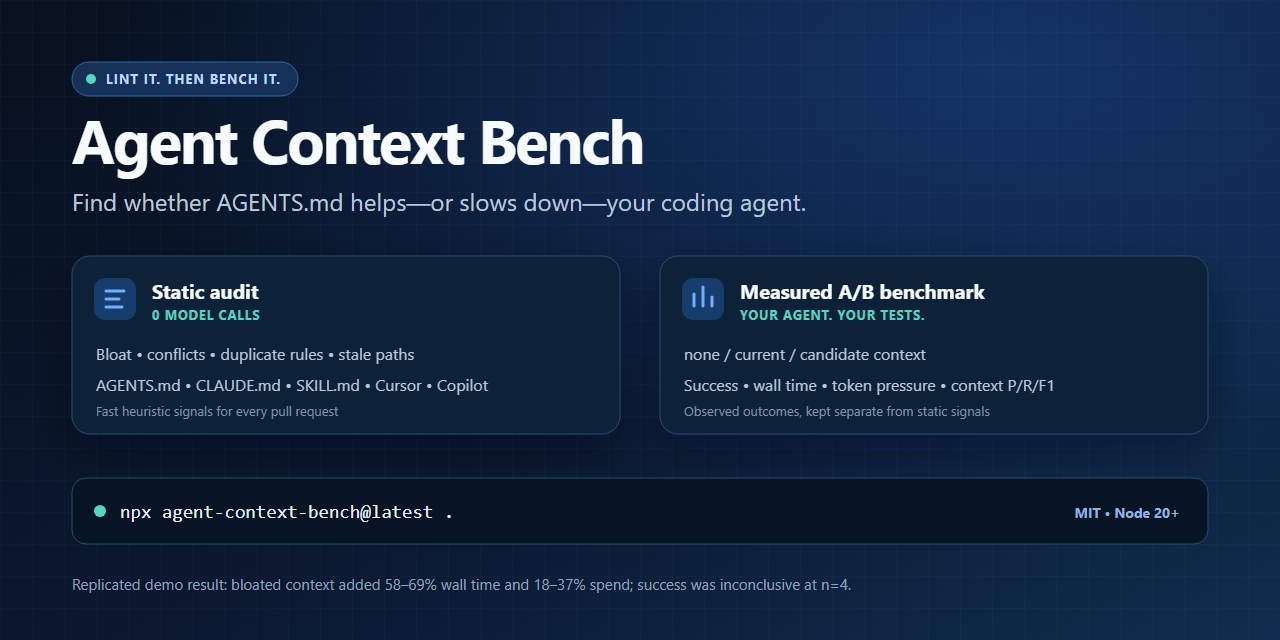
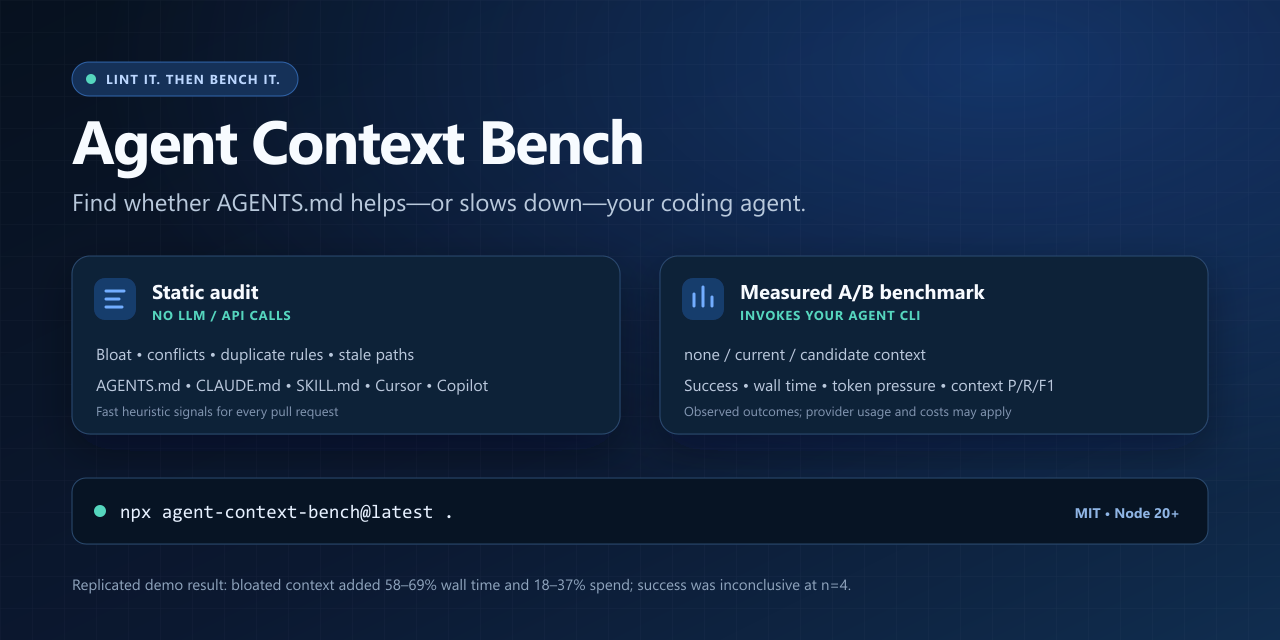
docs: clarify audit and benchmark usage

diff --git a/README.md b/README.md
@@ -5,18 +5,18 @@
 **Does your agent context help—or just add work?**
 
 Audit `AGENTS.md`, `CLAUDE.md`, coding-agent `SKILL.md` files, Cursor rules,
-and Copilot instructions locally with no model calls. Then A/B-test `none` vs
-`current` vs `optimized` context with your own agent, tasks, and verifier.
+and Copilot instructions locally without LLM or API calls. Then A/B-test `none`
+vs `current` vs `optimized` context with your own agent, tasks, and verifier.
 
 <p align="center">
   <picture>
     <source media="(prefers-color-scheme: dark)" srcset="./docs/img/overview-dark.svg">
     <source media="(prefers-color-scheme: light)" srcset="./docs/img/overview-light.svg">
-    <img src="./docs/img/overview-light.svg" alt="Agent Context Bench: model-free static audit followed by a measured A/B benchmark" width="880">
+    <img src="./docs/img/overview-light.svg" alt="Agent Context Bench: a local static audit without LLM or API calls, followed by a benchmark that invokes your agent CLI" width="880">
   </picture>
 </p>
 
-<p align="center"><strong>Local audit · zero model calls</strong> &nbsp;|&nbsp; <strong>Measured A/B runner</strong> &nbsp;|&nbsp; <strong>GitHub Action</strong></p>
+<p align="center"><strong>Static audit · no LLM/API calls</strong> &nbsp;|&nbsp; <strong>Benchmark · invokes your agent CLI</strong> &nbsp;|&nbsp; <strong>GitHub Action</strong></p>
 
 ## Try it in 30 seconds
 
@@ -51,8 +51,8 @@ rename it only if the repository needs agent-specific guidance.
 
 | Mode | Cost | What it tells you |
 | --- | --- | --- |
-| `agent-context-bench .` | No model calls | Heuristic risk signals, token footprint, conflicts, duplication, unsafe rules, broken paths, and scope |
-| `agent-context-bench run-bench …` | Real agent runs | Observed task success, wall time, context tokens, file precision/recall, and relative efficiency |
+| `agent-context-bench .` | No LLM/API calls | Heuristic risk signals, token footprint, conflicts, duplication, unsafe rules, broken paths, and scope |
+| `agent-context-bench run-bench …` | Invokes your agent CLI | Observed task success, wall time, context tokens, file precision/recall, and relative efficiency |
 
 The audit is a fast linter, not a prediction of runtime outcomes. Use it on
 every change; use the benchmark when you need evidence that one context variant
